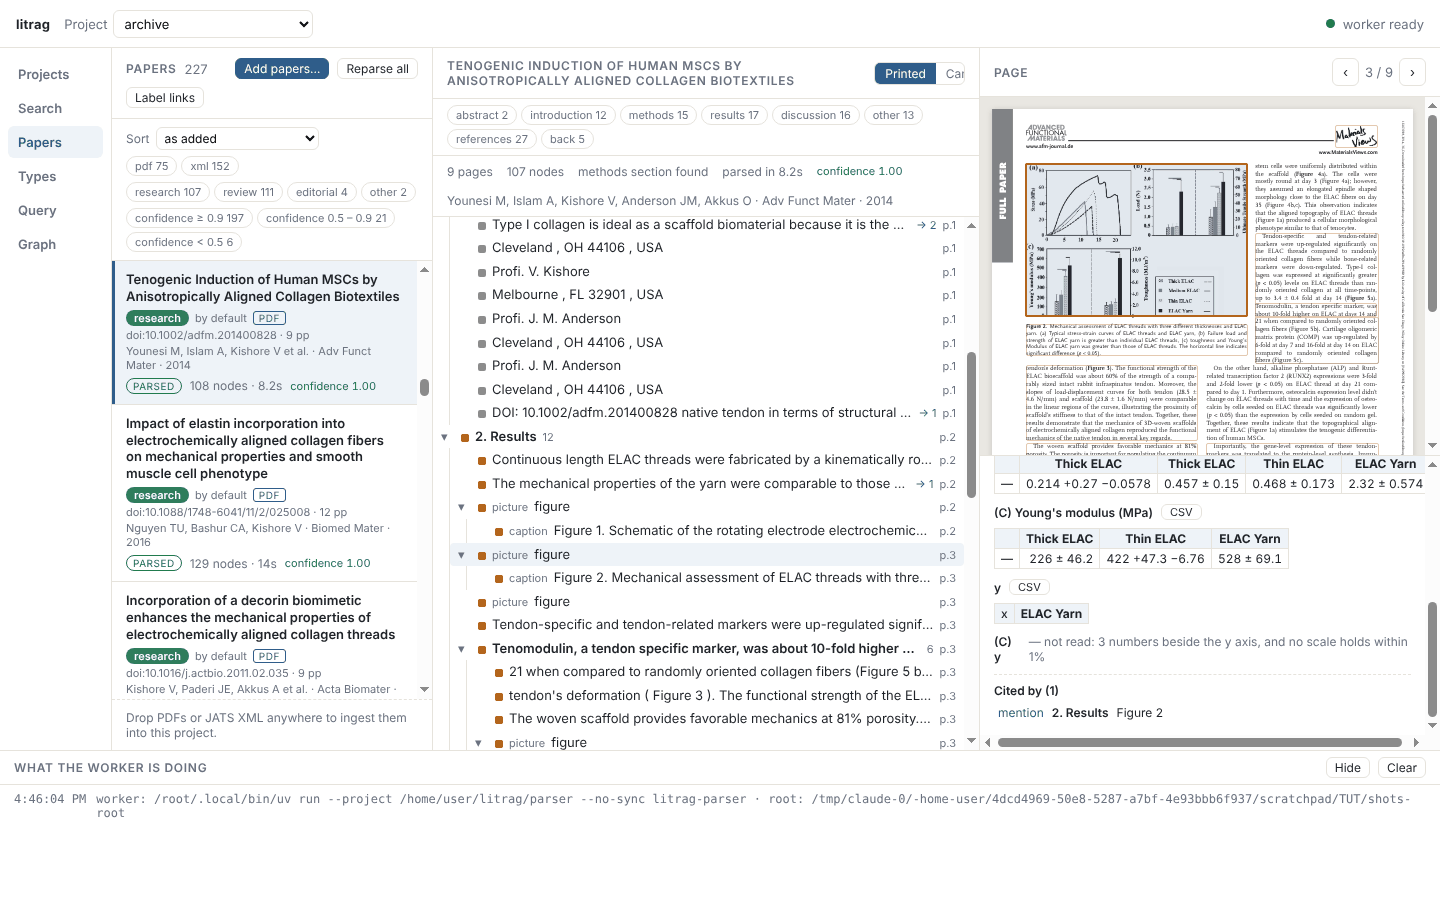
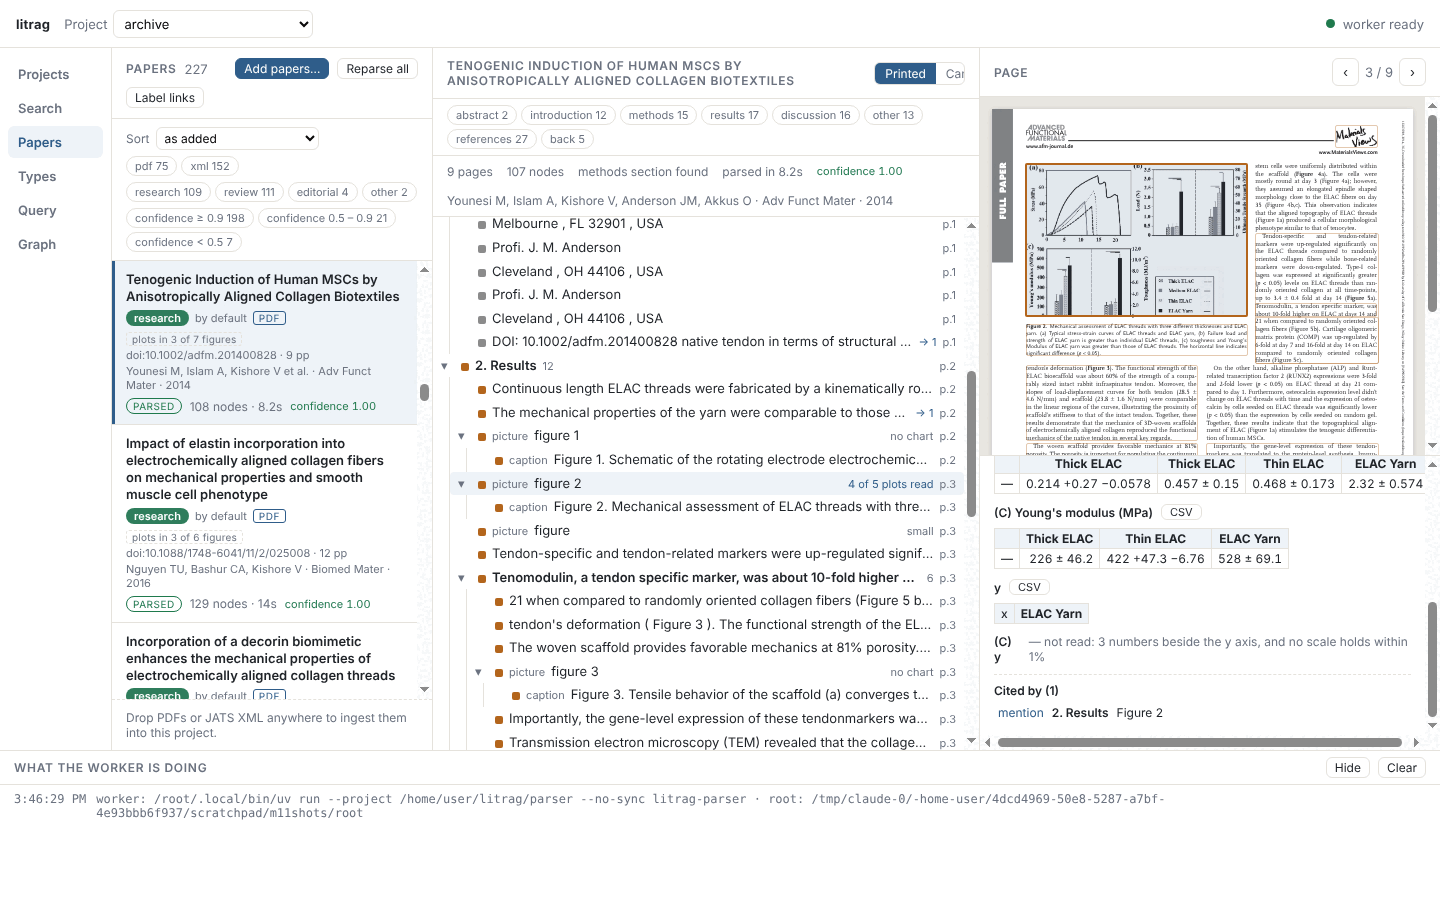
The studio e2e asserts the XML paper's figures path; the figure screenshots retaken
M11 of the XML-figures plan (K17(a)): the collect window walks the closed
paper, then the XML paper for its figures; PMC is asked once, at filing,
and its answer is on the card's chip, the window's title and the row.
Tutorial shots 12, 16, 18, 23 and 24 retaken on a recorded copy of the
scratch library.

Claude-Session: https://claude.ai/code/session_01TnSVFT8KErsNuwhvSaU8mV

diff --git a/app/tests/e2e/studio.spec.ts b/app/tests/e2e/studio.spec.ts
@@ -1,15 +1,21 @@
 /**
  * The studio, end to end, the way a person uses it: the real window, the real worker, Docling
- * on real PDFs, the real embedder. Only Europe PMC is stood in for, by a server on 127.0.0.1
- * (epmc-fixture.ts), so a search, a fetch of open XML, a fetch of an open PDF and a paper with
- * nothing open all happen along the real code paths without the network.
+ * on real PDFs, the real embedder. Only Europe PMC is stood in for, with PMC, NCBI, OpenAlex and a
+ * publisher's pages, by a server on 127.0.0.1 (epmc-fixture.ts), so a search, a fetch of open
+ * XML, a fetch of an open PDF, a paper with nothing open and PMC asked for the XML paper's PDF
+ * all happen along the real code paths without the network.
  *
  *   1. a project is made from the Projects tab, with a description;
  *   2. a literature search from the Search tab finds three papers: XML, PDF only, nothing open;
  *   3. "Fetch & read" takes the XML, then the open PDF, and marks the third as needing a PDF;
- *   4. Collect PDFs opens a window on the third paper's page; a click on its PDF link is caught,
- *      filed under that paper and read, and its candidate turns to "in library";
- *   5. the Papers tab: every paper read, a tree, the page with its boxes, the canonical face;
+ *      PMC, asked for the XML paper's PDF as it is filed, for its figures, has none to give;
+ *   4. the fetch opens the collect window by itself, and it walks the closed paper, then the XML
+ *      paper for its figures: a click on the closed paper's PDF link is caught, filed under that
+ *      paper and read, and its candidate turns to "in library"; the window moves on to the XML
+ *      paper's page, which has no PDF to click, and is closed: Collect PDFs still offers that
+ *      paper, for its figures;
+ *   5. the Papers tab: every paper read, a tree, the page with its boxes, the canonical face; the
+ *      XML paper's card says its figures have no PDF, and what PMC said;
  *   6. the Types tab: the kinds of paper, a canonical structure, a paper's mapping onto it;
  *   7. the Query tab: passages embedded, a question answered with passages hydrated from the
  *      tree — the paragraphs around each, and the methods a finding was measured by;
@@ -25,6 +31,8 @@ import { _electron as electron, expect, test, type ElectronApplication, type Pag
 import { existsSync, mkdtempSync, writeFileSync } from 'node:fs';
 import { tmpdir } from 'node:os';
 import { join, resolve } from 'node:path';
+import { collectLabel, collectList, type FiguresWanted } from '../../src/renderer/collectlist.ts';
+import { stateChip, type FigureState } from '../../src/renderer/figstate.ts';
 import { startFixture, type Fixture } from './epmc-fixture.ts';
 
 const APP_DIR = resolve(import.meta.dirname, '..', '..');
@@ -33,12 +41,30 @@ const ARCHIVE = resolve(APP_DIR, '..', '..', 'litrag-archive', 'looped-ligament'
 const PDF_OPEN = process.env['LITRAG_E2E_PDF_OPEN'] ?? join(ARCHIVE, 'doi_10.1016_j.actbio.2017.05.058.pdf');
 const PDF_CLOSED = process.env['LITRAG_E2E_PDF_CLOSED'] ?? join(ARCHIVE, 'doi_10.1016_j.biomaterials.2008.04.028.pdf');
 const MODELS = process.env['LITRAG_E2E_MODELS'] !== '0';
+/** the paper read from open XML, whose figures want a PDF */
+const XML_KEY = 'doi:10.3390/mi15070851';
+/** what PMC says when the worker asks it for that paper's PDF: the stand-in's Cloud listing is empty and its bulk area a 404 (epmc-fixture.ts) */
+const NO_PDF = 'PMC Cloud: not in its open-access datasets; bulk area: HTTP 404';
 
 const request = <T = Record<string, unknown>>(page: Page, op: string, params: Record<string, unknown> = {}) =>
   page.evaluate(([op, params]) => (window as unknown as { litrag: { request: (op: string, p: Record<string, unknown>) => Promise<unknown> } }).litrag.request(op, params), [op, params] as const) as Promise<T>;
 
 interface Cand { cand_id: number; doi: string | null; status: string; title: string | null; paper_key: string | null }
-interface PaperRow { key: string; title: string; status: string; format: string | null; nodes: number; has_methods: number | null; type: string | null; error: string | null }
+interface PaperRow {
+  key: string;
+  title: string;
+  status: string;
+  format: string | null;
+  nodes: number;
+  has_methods: number | null;
+  type: string | null;
+  error: string | null;
+  pmcid: string | null;
+  figures_file: string | null;
+  /** PMC's settled answer that it has no PDF to draw an XML paper's figures */
+  figures_note: string | null;
+  figure_state?: FigureState | null;
+}
 
 let app: ElectronApplication;
 let page: Page;
@@ -59,7 +85,7 @@ test.beforeAll(async () => {
   root = mkdtempSync(join(tmpdir(), 'litrag-studio-'));
   app = await electron.launch({
     args: [APP_DIR, '--no-sandbox'],
-    env: { ...process.env, LITRAG_ROOT: root, LITRAG_EPMC_URL: fixture.url, LITRAG_EPMC_PDF_URL: fixture.pdfUrl, LITRAG_NCBI_URL: fixture.ncbiUrl, LITRAG_PMC_CLOUD_URL: fixture.cloudUrl, LITRAG_OPENALEX_URL: fixture.openalexUrl, LITRAG_DOI_RESOLVER: fixture.doiUrl },
+    env: { ...process.env, LITRAG_ROOT: root, LITRAG_EPMC_URL: fixture.url, LITRAG_EPMC_PDF_URL: fixture.pdfUrl, LITRAG_NCBI_URL: fixture.ncbiUrl, LITRAG_PMC_CLOUD_URL: fixture.cloudUrl, LITRAG_OPENALEX_URL: fixture.openalexUrl, LITRAG_DOI_RESOLVER: fixture.doiUrl, LITRAG_FIGURES: 'on' },
   });
   page = await app.firstWindow();
   await page.waitForLoadState('domcontentloaded');
@@ -132,32 +158,55 @@ test('3. Fetch & read: the XML, then the open PDF; the closed paper is marked as
   // filed is "in library"; read is every paper parsed into its tree
   await expect.poll(async () => (await papersOf()).filter((p) => p.status === 'parsed').length, { timeout: 15 * 60 * 1000, intervals: [2000] }).toBe(2);
   const byDoi = new Map((await candidates()).map((c) => [c.doi, c]));
-  expect(byDoi.get('10.3390/mi15070851')!.paper_key).toBe('doi:10.3390/mi15070851');
+  expect(byDoi.get('10.3390/mi15070851')!.paper_key).toBe(XML_KEY);
   expect(byDoi.get('10.1016/j.actbio.2017.05.058')!.paper_key).toMatch(/actbio\.2017\.05\.058/i);
   expect(fixture.requests.some((r) => r.includes('/PMC11278924/fullTextXML'))).toBe(true);
   expect(fixture.requests.some((r) => r.startsWith('/cloud/?') && r.includes('prefix=PMC9000001.'))).toBe(true); // the PMC Cloud Service first
   expect(fixture.requests.some((r) => r.includes('/PMC9000001.zip'))).toBe(true);
+  // the XML paper, once the papers filed with it are read (the PDF's figures too), is asked of PMC for its PDF, for its
+  // figures: the Cloud Service, then the bulk area, both the stand-in's; PMC's answer, that it has none, is kept
+  await expect.poll(async () => (await papersOf()).find((p) => p.key === XML_KEY)?.figures_note, { timeout: 10 * 60 * 1000, intervals: [2000] }).toBe(NO_PDF);
+  expect(fixture.requests.some((r) => r.startsWith('/cloud/?') && r.includes('prefix=PMC11278924.'))).toBe(true);
+  expect(fixture.requests.some((r) => r.includes('/PMC11278924.zip'))).toBe(true);
   await expect(page.locator('#candidates .pill.st-needs-pdf')).toHaveCount(1, { timeout: 30_000 });
   await expect(page.locator('#candidates .pill.st-ingested')).toHaveCount(2);
   // the closed paper offers its publisher's page to download from
   await expect(page.locator('#candidates .hit', { has: page.locator('.pill.st-needs-pdf') }).locator('a', { hasText: 'publisher' })).toHaveCount(1);
 });
 
-test('4. Collect PDFs: the window walks the closed paper, a click on its PDF is caught, filed under it and read', async () => {
+test('4. Collect PDFs: the window walks the closed paper, then the XML paper for its figures; a click on the closed paper’s PDF is caught, filed under it and read', async () => {
   test.setTimeout(10 * 60 * 1000);
-  // opened by the fetch itself, on the one paper that wants a PDF; the button says a walk is on
+  // opened by the fetch itself, which left a paper with no open copy (afterFetch's 'open'): that paper first, then the
+  // XML paper, whose figures want a PDF PMC had none of (collectList); the button says a walk is on
   const collect = await collectOpened!;
   await expect(page.locator('#collect')).toHaveText('Collecting…', { timeout: 20_000 });
   await collect.waitForLoadState('domcontentloaded');
   await expect(collect.locator('h1')).toContainText('anisotropically oriented collagen bundles'); // the paper's own page, by its DOI
-  await expect(page.locator('#collect-status')).toContainText('Paper 1 of 1');
+  await expect(page.locator('#collect-status')).toContainText('Paper 1 of 2');
   await collect.click('#pdf'); // what a person does: click the publisher's PDF link
+  // the download caught, the window moves on to the XML paper's own page, by its DOI: no PDF to click there
+  await expect(collect.locator('h1')).toContainText('Aligned Collagen across Varied Crosslinking Degrees', { timeout: 30_000 });
+  await expect(page.locator('#collect-status')).toContainText('Paper 2 of 2');
+  // its title bar says what the PDF is wanted for, and what PMC said when it was asked (collectlist.ts, figstate.ts)
+  const { figures } = await request<{ figures: FiguresWanted[] }>(page, 'wanted', { lib: LIB });
+  expect(figures.map((f) => [f.key, f.figures_note])).toEqual([[XML_KEY, NO_PDF]]);
+  const entry = collectList([], figures)[0]!;
+  expect((entry.title ?? '').endsWith(` — PMC: ${NO_PDF}`), entry.title ?? '').toBe(true); // what a person sees, in words: PMC's answer after the title
+  await expect.poll(() => app.evaluate(({ BrowserWindow }) => BrowserWindow.getAllWindows().map((w) => w.getTitle()))).toContain(`Collect 2 of 2 — ${entry.title}`);
   await expect.poll(async () => (await candidates()).filter((c) => c.status === 'ingested').length, { timeout: 8 * 60 * 1000, intervals: [2000] }).toBe(3);
   await expect.poll(async () => (await papersOf()).filter((p) => p.status === 'parsed').length, { timeout: 8 * 60 * 1000, intervals: [2000] }).toBe(3);
   const caught = (await papersOf()).find((p) => /biomaterials\.2008\.04\.028/i.test(p.key));
   expect(caught, 'filed under the DOI of the candidate it was caught for').toBeTruthy();
-  await expect(page.locator('#collect-status')).toContainText('1 caught', { timeout: 30_000 });
-  await expect(page.locator('#collect')).toHaveText('Collect PDFs', { timeout: 30_000 }); // nothing left waiting
+  // the person closes the window on the XML paper's page, as its close button does
+  const closed = collect.waitForEvent('close');
+  await app.evaluate(({ BrowserWindow }) => BrowserWindow.getAllWindows().find((w) => w.getTitle().startsWith('Collect '))?.close());
+  await closed;
+  await expect(page.locator('#collect-status')).toContainText('Collect window closed', { timeout: 30_000 });
+  await expect(page.locator('#collect-status')).toContainText('1 caught');
+  // no paper left with no copy at all; the XML paper's figures still want a PDF, so Collect PDFs still offers it
+  await expect(page.locator('#collect')).toHaveText(collectLabel(0, 1, false), { timeout: 30_000 }); // "Collect PDFs (1 for figures)"
+  // PMC was asked once, when the XML paper was filed: the closed paper's read and the walk asked it nothing more
+  expect(fixture.requests.filter((r) => r.startsWith('/cloud/?') && r.includes('prefix=PMC11278924.'))).toHaveLength(1);
   // the same PDF dropped in by hand afterwards is the same paper: filed once
   await request(page, 'ingest', { lib: LIB, paths: [PDF_CLOSED] });
   await expect.poll(async () => (await papersOf()).length, { timeout: 60_000 }).toBe(3);
@@ -172,6 +221,16 @@ test('5. Papers: every paper read into a tree, the page drawn, the canonical fac
   expect(rows.map((p) => `${p.key}: ${p.status} ${p.error ?? ''}`).filter((s) => !s.includes('parsed'))).toEqual([]);
   expect(rows.every((p) => p.nodes > 20), 'every paper has a tree of some size').toBe(true);
   expect(rows.filter((p) => p.has_methods).length, 'three research papers, each with its methods found').toBe(3);
+  // the XML paper: PMC, asked for its PDF as it was filed, had none, and the paper keeps its answer; its card says so (figstate.ts)
+  const xml = rows.find((p) => p.key === XML_KEY)!;
+  expect([xml.format, xml.pmcid, xml.figures_file ?? null, xml.figures_note]).toEqual(['jats', 'PMC11278924', null, NO_PDF]);
+  expect([xml.figure_state?.kind, xml.figure_state?.numbered, xml.figure_state?.note]).toEqual(['no-pdf', 6, NO_PDF]);
+  const chip = stateChip(xml)!;
+  expect(chip.title.endsWith(` PMC: ${NO_PDF}.`), chip.title).toBe(true);
+  const figs = page.locator(`#papers .paper[data-key="${XML_KEY}"] .figs`);
+  expect(chip.text).toBe('6 figures · no PDF'); // what a person sees, in words
+  await expect(figs).toHaveText(chip.text);
+  await expect(figs).toHaveAttribute('title', chip.title);
   for (const fmt of ['pdf', 'jats']) {
     const row = rows.find((p) => p.format === fmt)!;
     await page.locator(`#papers .paper[data-key="${row.key}"]`).click();
